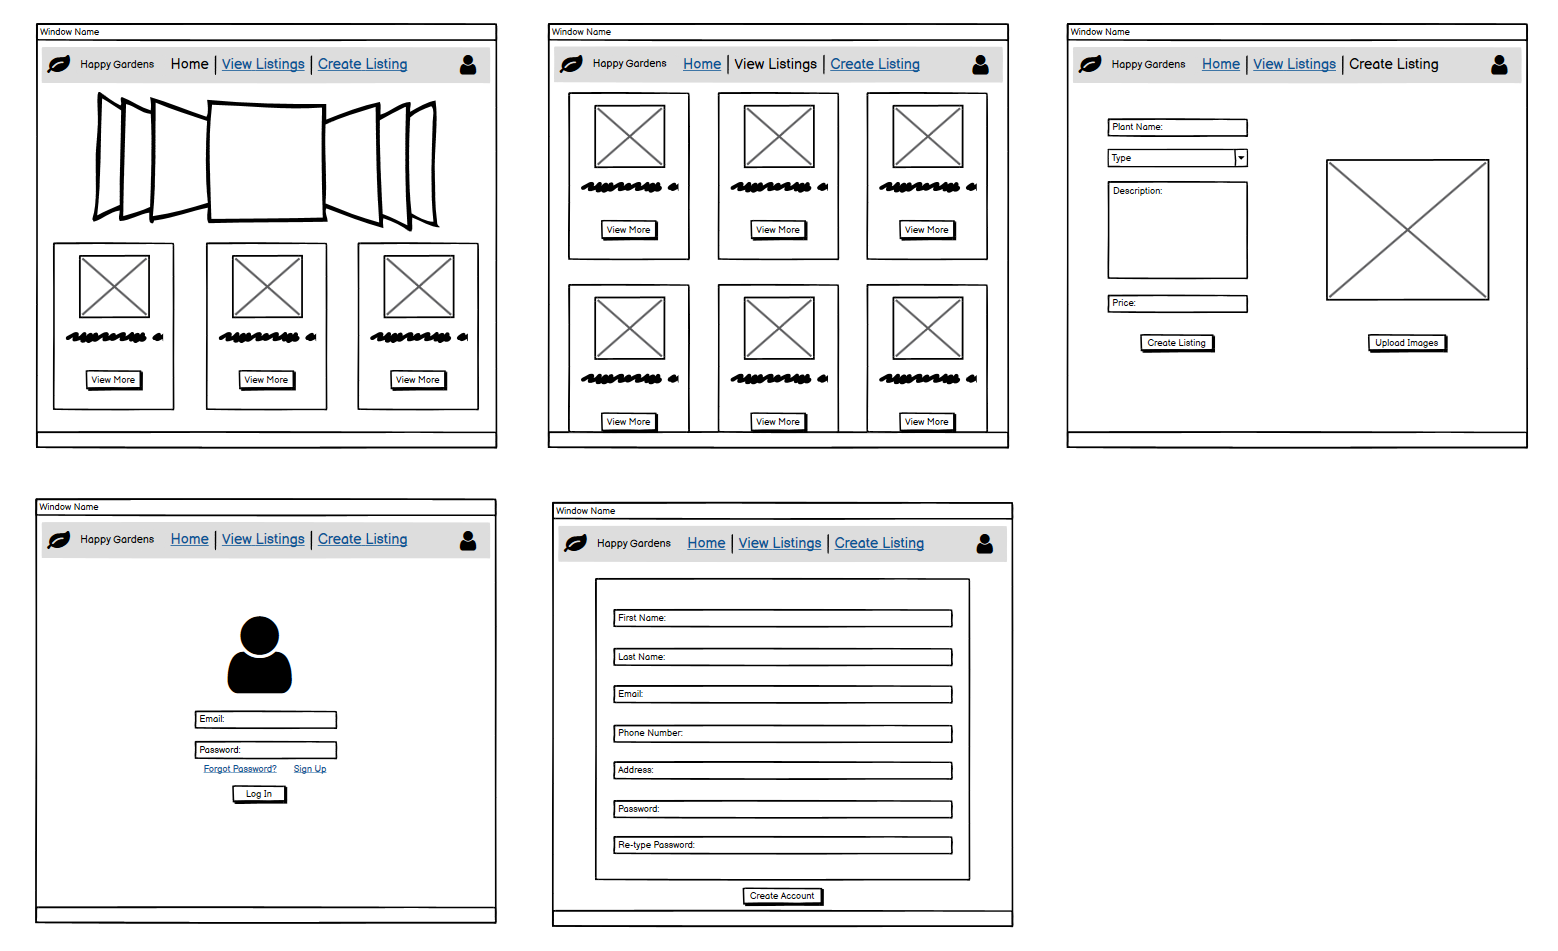
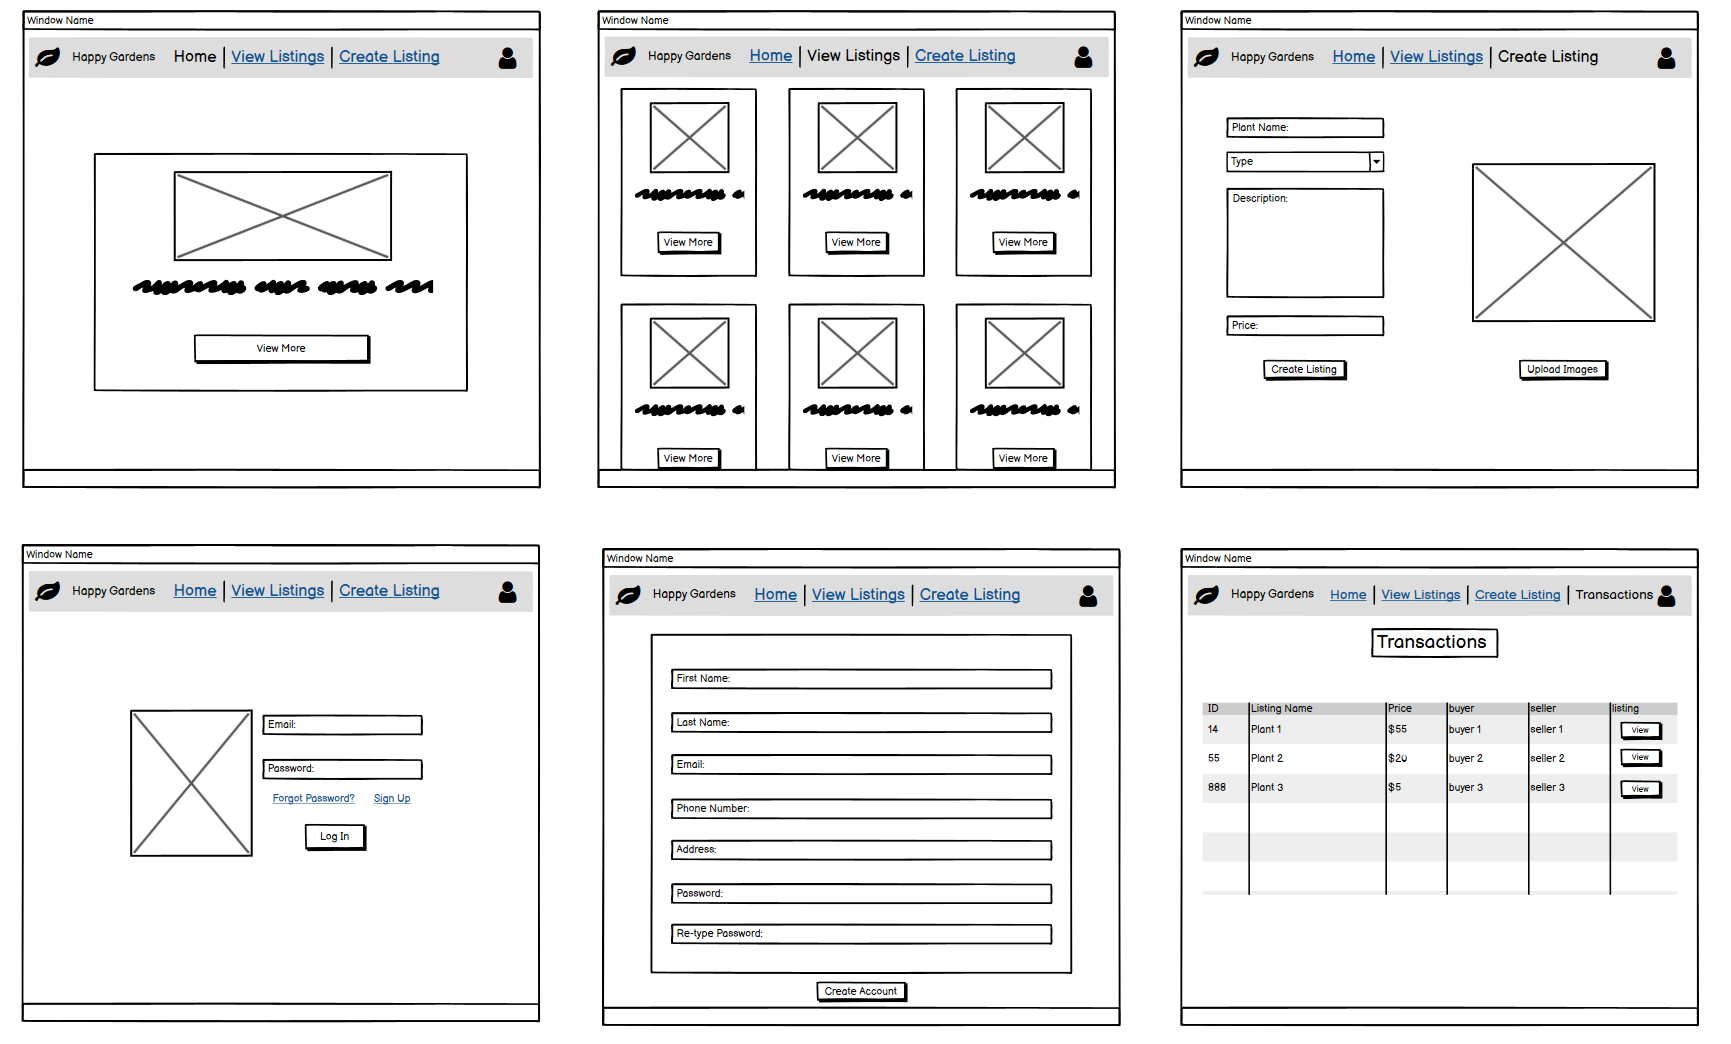
Updated README, added images, changed transaction logic

diff --git a/app/controllers/transactions_controller.rb b/app/controllers/transactions_controller.rb
@@ -6,6 +6,6 @@ class TransactionsController < ApplicationController
 
     private
     def set_transactions
-        @transactions = Transaction.where("seller_id == :user_id OR buyer_id == :user_id", { user_id: current_user.id })
+        @transactions = Transaction.where("seller_id = :user_id OR buyer_id = :user_id", { user_id: current_user.id })
     end
 end

diff --git a/README.md b/README.md
@@ -2,21 +2,27 @@ Access Happy Gardens [here](https://happy-gardens.herokuapp.com/)
 Github Repo can be found [here](https://github.com/ehall28/happy-gardens)
 
 ---
-## Description
+## Description of the project
+
+---
+
+### Problems/Purpose/Target Audience
+
+#### Description
 
 Happy Gardens is a two-way marketplace application where users can browse various listings of plants. If the user wishes to either purchase something or create a listing of their own, they will need to sign up beforehand. Happy Gardens is designed to help individuals find the right plant, while ensuring top service and reasonable prices.
 
-### Identification of the problem you are trying to solve by building this particular marketplace app and why is it a problem that needs solving?
+#### Problems in the marketplace
 
 There are a few problems in the online plant industry that Happy Gardens hopes to solve. Most online websites that sell plants, sell them for an exorbitant price and don't offer after service plant care. Happy Gardens allows users to sell their plants at a reasonable price, while also ensuring customer/buyer satisfaction knowing that they are receiving the best deal. Happy Gardens will also provide after service care/tips for anyone that needs a hand after buying their desired plant. Happy Gardens also removes the cost of delivery, as most other online plant website charge a great deal for delivery. Another problem that needs solving is that there aren't any places that offer a service for plant cuttings. Through Happy Gardens, anyone can upload an image of their garden and allow for people to make requests of a specific cutting from a specific plant within their garden, which Happy Gardens can also offer the service of ensuring that the cutting is taken from the plant correctly and planted correctly, giving the cutting the best chance to flourish for the customer. One last problem that most plant shops don't offer is plant health guarantees, to combat this, Happy Gardens will offer a 6 month plant health guarantee to all customers, ensuring returning clients and happy customers.
 
-### Purpose
+#### Purpose
+
 The purpose of this two-way marketplace is to provide a service for like minded individuals to purchase plants and cuttings with ease, while also ensuring product quality and buyer/seller satisfaction. With the added bonus of after plant care, the customers are guaranteed the best experience. Happy Gardens aims to disrupt the problems within the online plant buying community and add a new convenient way to shop for plants online.     
 
----
 #### Target audience
 
-- The target audience is anyone of any age that has an interest in plants and gardening, is looking to get into gardening or are even looking for a gift for someone else.
+The target audience is anyone of any age that has an interest in plants and gardening, is looking to get into gardening or are even looking for a gift for someone else.
 
 ---
 ### Functionality / features
@@ -25,7 +31,7 @@ The purpose of this two-way marketplace is to provide a service for like minded 
 - The Devise gem was implemented to allow users to sign up, log in and out, as well as edit their account details or delete their account. Devise also handles prompting the user if the entered user name or password is incorrect and also aids the user in resetting the password if needed.  
 - To ensure users were restricted to seeing certain pages, the Pundit gem was implemented. Pundit allows the implementation of a policy and the assignment of roles to users. All new users are automatically assigned the role of user, which grants access to the website and the ability to create listings.
 - Image upload capability was handle by Cloudinary, which allowed sellers to upload images of the plant they wished to sell. Cloudinary also offers editing capabilities that allow you to scale and edit photos without the need of CSS.
-- Users that hold an account are able to create, edit, view and delete their listings. Users that do not own the listing they are viewing, will not be authorised to edit or delete that listing, nor will the options be displayed to them.
+- Users that hold an account are able to create, edit, view and delete their listings. Users can also were their transactions from purchases or from their own item being sold. Users that do not own the listing they are viewing, will not be authorised to edit or delete that listing, nor will the options be displayed to them.
 
 ---
 ### Sitemap
@@ -34,9 +40,9 @@ The below sitemap demonstrates the general flow of the application. The root pag
 
 ![Sitemap](docs/sitemap.png)
 
-  
 ---
-### Tech stack (e.g. html, css, deployment platform, etc)
+### Tech stack
+
 - Ruby on Rails
 - HTML
 - CSS
@@ -78,30 +84,31 @@ The below sitemap demonstrates the general flow of the application. The root pag
 ![Desktop View Wireframe](docs/desktop.png)
 
 ---
-## ERD
-    -  Discuss the database relations to be implemented
-    -  Provides coherent discussion of the database relations, with reference to the ERD
-
-    - ERD provided represents a normalised database model
-
-![ERD Diagram](docs/erd.png)
-
-
 ## Explain the different high-level components (abstractions) in your app
     - High level abstractions - describe each model/entities and how they relate to each other and the purpose of having them in the app
 
-- The user model is handled by the devise gem
-    - gives the ability to log in
-    - the views are handle by the devise gem which allows a user to log in, sign up and change their details
-- listing
-    - stores information about the item being sold through the website
-- transaction 
-    - stores information about the purchases made
-
-
-
 Abstractions are basically your models, views and controllers
 Explain how the MVC architecture and concept of inheritance impact the structure of your application and the entities within it
+
+
+models:
+- all models inherit the pregenerated class called ApplicationRecord, which itself inherits the class ActiveRecord::Base.
+    - 
+
+- user
+    - user model is handled by the devise gem
+    - gives the user the ability to log in
+    - the views are handled by the devise gem which allows a user to log in, sign up and change their details
+- why do we need the user model:
+
+- Listing
+    - stores information about the item being sold through the website
+- why do we need the listing model:
+
+- transaction
+    - stores information about the purchased made
+- why do we need a transaction model:
+    - without the transaction model, there wouldn't be a way to store the information about a transaction
 
 ---
 ## Third party services that your app will use
@@ -111,36 +118,26 @@ Explain how the MVC architecture and concept of inheritance impact the structure
 - heroku 
 
 
-## Describe your projects models in terms of the relationships (active record associations) they have with each other
-    - Complete discussion of the project’s models with an understanding of how its active record associations function
+## Projects models in terms of the relationships (active record associations) they have with each other
 
-In terms of active record associations - belongs_to, through, has_many -relationships of the models in terms of active record
--eg if you have a has_many through, what does that mean? why is it needed to achieve that purpose?
+Using active record associations allows you to streamline operations within your application. Without them the code becomes more complex, repetitious and certainly not DRY.
+Active record associations, such as belongs_to or has_many, tells rails that there is a connection between two models.
 
-- Listing belongs_to the user
-    - because we need the one-to-one connection, so each listing can be assigned directly to one user.
-    - Having this association allows us to limit what a user can see or access. Without a certain listing belonging to a user, anyone would be able to make changes to it and potentially delete it or provide misinformation.
-- Listing has_one_attached image
-    - 
-- A user has_many listings
-    - 
+In this application, the belong_to association is declared in the Listing model. Listing belongs_to the user because we need the one-to-one connection, so each listing can be assigned directly and only to one user. Having this association allows us to limit what a user can see or access. Without a certain listing belonging to a user, anyone would be able to make changes to it and potentially delete it or provide misinformation. Similarly, the Listing model also has_one_attached image, creating the one-to-one connection, so each listing can have one image associated with it.
 
-- The Role model was pregenerated- but has the relation has_and_belongs_to users
+The User model has_many listings and is a one-to-many connection, because users can have many listings, but the listing can only have one user. The has_many association is declared with the dependent option, destroy, which will remove any listings associated with that specific user, if the user has been deleted. Using the delete option in this situation not only prevents breaking referential integrity, but prevents someone from trying to purchase an item from a user that no longer exists and causing a bad user experience.
 
+The Transaction model has a belongs_to association for the buyer and seller, creating the one-to-one connection. Using buyer and seller in the transaction model allows the differentiation of users that can be a both buyer and seller. The transaction model also belongs_to a listing. The belongs_to that are declared in the transaction model is necessary because one transaction can only belong to one user or one seller, and one transaction has to belong to only one listing.
 
-## Discuss the database relations to be implemented in your application
+The Role model was pre-generated with the Pundit gem and therefore generated the associations. The model has a has_and_belongs_to_many users association, because the roles created will belong to a user, but a user can also have many roles associated to them. 
 
- Table relationships - language of databases - narrative explanation of ERD R12 - R12 is the visual aspect 
+---
+## Database relations implemented in the application
 
-A user of Happy Gardens has a one-to-many listing relation, as a user can have multiple listings, but only one listing can belong to a user. In the listings table, a seller_id was included as a foreign key to identify the relationship between the users table and listings table. The listing also has a one-to-one relation with images, because in the listing model there is a has_one_attached image relation. 
+A user of Happy Gardens has a one-to-many listing relation, as a user can have multiple listings, but only one listing can belong to a user. In the listings table, a seller_id was included as a foreign key to identify the relationship between the users table and listings table. The listing also has a one-to-one relation with images, because in the listing model there is a has_one_attached image association. The transaction model has a one-to-one connection with the user, so the transaction belongs to one user.
 
-- The users table contains a autoincrementing, unique id set as the primary key, which helps to distinguish the users apart
-- Each listing also has a unique id set as the primary key, but also contains a seller_id listed as the foreign key, which connects to the specific users id - this is ensures that we'll always know what listing belongs to who - makes authorisation easier
-- The transaction table contains both a buyer and seller id as foreign keys, as well as a listing id which connects to a specific listing. This allows us to determine who purchased what and who the original listing belonged to.  
+In the ERD below you can see that the users table contains an auto incrementing, unique id set as the primary key, which helps to distinguish the users apart. Each listing also has a unique id set as the primary key, but also contains a seller_id listed as the foreign key, which connects to the specific users id, this ensures that we'll always know what listing belongs to who and makes authorisation possible. The transaction table contains both a buyer and seller id as foreign keys, as well as a listing id which connects to a specific listing and user. This allows us to determine who purchased what and who the original listing belonged to. 
 
-
-
-## Database schema design
 ![ERD](/docs/erd.png)
 
 ---
@@ -148,11 +145,22 @@ A user of Happy Gardens has a one-to-many listing relation, as a user can have m
 
     - Shows significant planning for how tasks are planned and tracked, including a full description of the process and of the tools used
 
-The project was tracked using the list making application, trello (link can be found [here](https://trello.com/b/Wjpd4G0L/two-way-marketplace)). The tasks were broken down into categories to better help identify what was currently being worked on and what took priority over other tasks. Some larger tasks were split up into checklists to help break down what the was required in implementing a task. Such as, for my view task, I add various checklist to help identify which tasks to tackle first 
+The project was tracked using the list making application, trello (link can be found [here](https://trello.com/b/Wjpd4G0L/two-way-marketplace)). The tasks were broken down into categories to better help identify what was currently being worked on and what took priority over other tasks. Some larger tasks were split up into checklists to help break down what the was required in implementing a task. Such as, for my view task, I added various checklist to help identify which tasks to tackle first. 
 
 - you need to implement something first before another thing ie models before views etc - thats why its structured that way also 
 
+![trello 1](/docs/trello1.png)
+---
+![trello 2](/docs/trello2.png)
+---
+![trello 3](/docs/trello3.png)
+---
+![trello 4](/docs/trello4.png)
+---
+![trello 5](/docs/trello5.png)
 
+Whiteboard planning 
+![whiteboard](/docs/planning.jpg)
 
 
 
